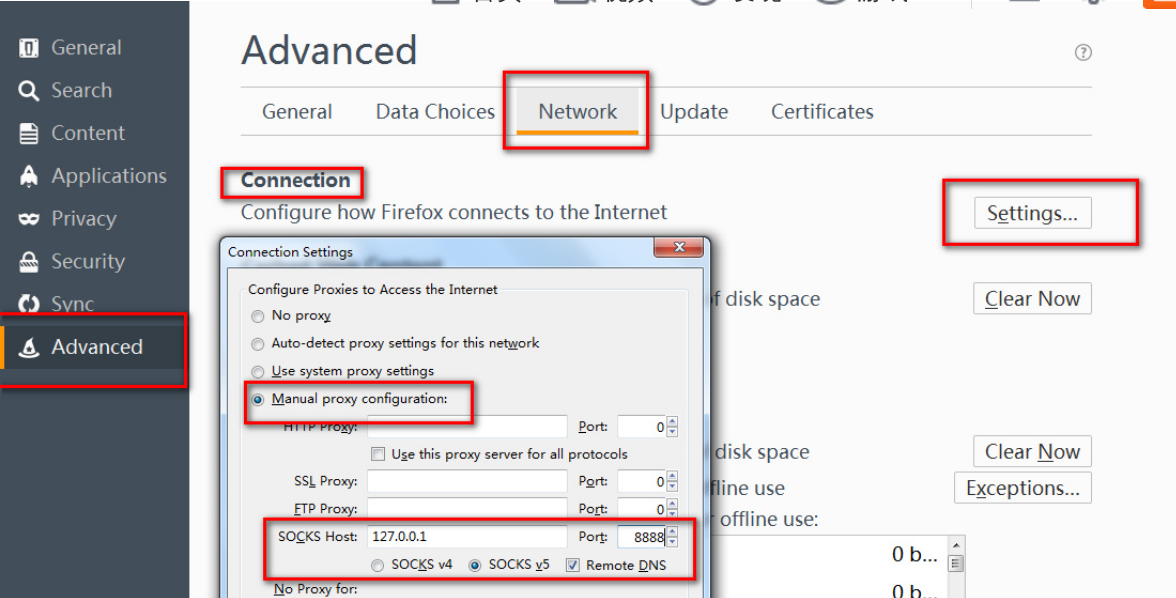
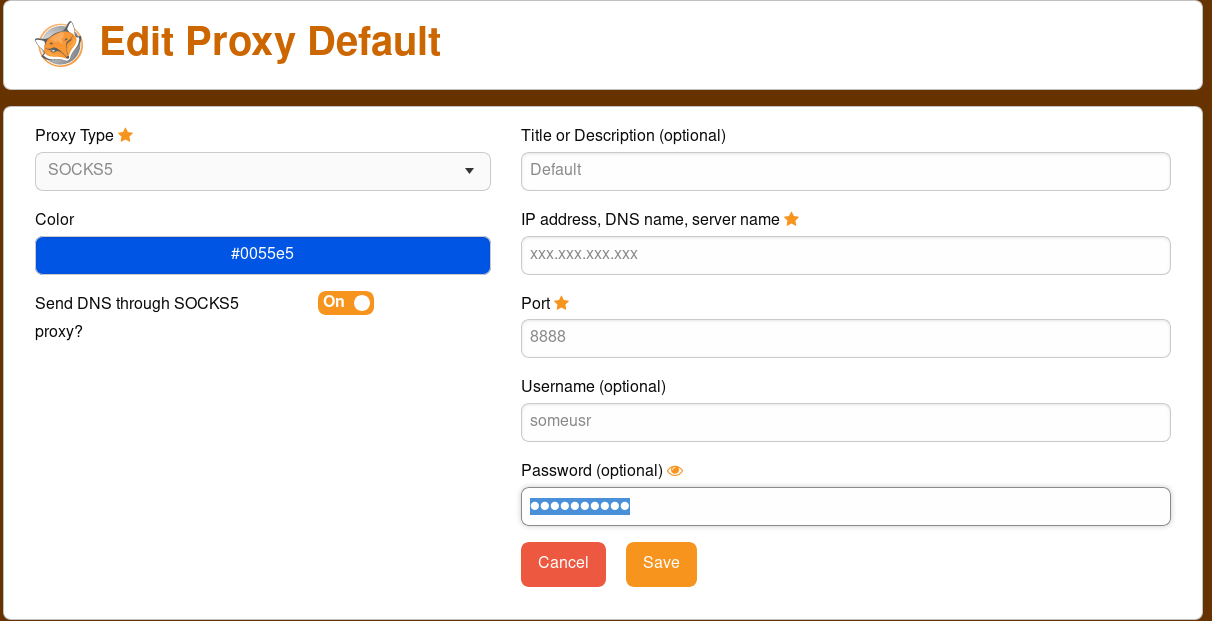
firefox

diff --git a/_posts/2014/2014-11-20-3proxy.md b/_posts/2014/2014-11-20-3proxy.md
@@ -1,7 +1,7 @@
 ---
 layout: post
 category : freedom
-title:  "访问互联网：搭建 3proxy 服务"
+title:  "访问互联网：搭建 3proxy 代理服务"
 tagline: ""
 tags : [ "3proxy", "great.w" ] 
 ---
@@ -12,11 +12,11 @@ tags : [ "3proxy", "great.w" ]
 
 # 说明
 
-优点：简单，可以直接填入配置开始用，命令行直接拉取一些大容量的程序安装包很方便
+优点：简单，填入配置即可使用，命令行直接拉取一些大容量的程序安装包很方便
 
-缺点：不稳定，容易被reset。有些浏览器或客户端不支持带user:password验证的socks5代理
+缺点：不太稳定，容易被reset。部分客户端不支持带user:password验证的socks5/http代理
 
-建议：写代码、做命令行工具时使用
+建议：写代码、做命令行工具时使用。或者电脑桌面firefox + foxyproxy配置使用
 
 # 安装
 
@@ -61,6 +61,8 @@ socks -p3456 -n
 
 启动3proxy: ``cd /etc/3proxy && ./3proxy 3proxy.cfg``
 
-用curl通过http代理取页面：``curl -x somepu:somepw@xxx.xxx.xxx.xxx:2356 http://abbypan.blogspot.mx -v``
+用curl通过http代理取页面：``curl -x somepu:somepw@xxx.xxx.xxx.xxx:2356 http://abbypan.blogspot.com -v``
 
-用curl通过socks5代理取页面：``curl --proxy socks5h://somepu:somepw@xxx.xxx.xxx.xxx:3456 http://abbypan.blogspot.mx -v``
+用curl通过socks5代理取页面：``curl --proxy socks5h://somepu:somepw@xxx.xxx.xxx.xxx:3456 http://abbypan.blogspot.com -v``
+
+firefox使用配置参考 [firefox foxyproxy socks5](https://abbypan.github.io/2007/10/15/ssh-tunnel#%E6%B5%8F%E8%A7%88%E5%99%A8%E4%BD%BF%E7%94%A8ssh-tunnel)

diff --git a/_posts/2007/2007-10-15-ssh-tunnel.md b/_posts/2007/2007-10-15-ssh-tunnel.md
@@ -48,13 +48,13 @@ tags : [ "great.w", "ssh", "socks5", "privoxy", "polipo", "plink", "rsync" ]
 
 以firefox为例，下载并安装：[firefox-portable-install](http://portableapps.com/apps/internet/firefox_portable)
 
-打开firefox，
+打开firefox portable，下载并安装扩展 [foxyproxy](https://addons.mozilla.org/zh-CN/firefox/addon/foxyproxy-standard/)
 
-about:config设置network.proxy.socks_remote_dns为true
-
-option配置如下：
+foxyproxy配置如下：
 
 ![firefox-socks](/assets/posts/firefox_socks.png)
+
+![firefox-socks](/assets/posts/firefox_socks2.png)
 
 配置完毕后直接测试访问google。
 
